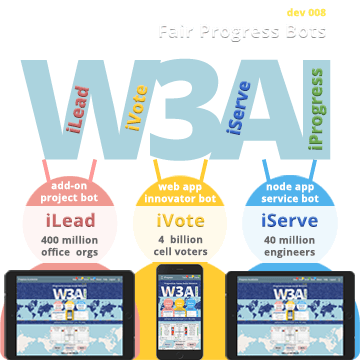
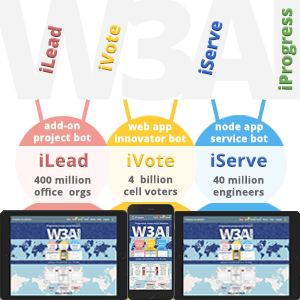
300px W3AI bots png on welcome + css

diff --git a/src/app/welcome/welcome.component.html b/src/app/welcome/welcome.component.html
@@ -1,16 +1,11 @@
 <section fxLayout="column" fxLayoutAlign="start center" class="web-view">
 
-  <img id="innovators" class="web-show" src="/assets/img/innovators-400.jpg">
+  <img id="innovators" class="web-show" src="/assets/img/innovators-400.jpg" height="300">
 
   <div class="faster-world">
     <img id="leaders" src="/assets/img/filter.png">
   </div>
 
-  <!--
-  <div class="faster-world" [ngStyle]="{'background-position-x': setFasterWorldMove() + 'px'}">
-      <img id="leaders" src="/assets/img/filter.png">
-  </div>
--->
   <div class="slow-world" [ngStyle]="{'background-position-x': setSlowWorldMove() + 'px'}">
     <img id="voters" src="/assets/img/filter.png">
   </div>
@@ -34,7 +29,7 @@
         <li fxHide.lt-md class="ranks" fxLayout="column" fxLayoutAlign="center center" fxLayoutGap="5px">
           <h6 class="carousel"
             title="Ranking based on Alfred North Whitehead formula - Civilization Rank = Number of unique automated services">
-            Innovation Rank by number of unique bot services</h6>
+            Innovation Rank by number of unique service bots</h6>
           <ol class="container-index" fxLayout="row" fxLayoutAlign="center center" fxLayoutGap="10px">
             <li class="rank">EN <img class="rank-flag" src="/assets/flags/US.png"></li>
             <li class="rank">ZH <img class="rank-flag" src="/assets/flags/CN.png"></li>
@@ -60,7 +55,7 @@
         <li fxHide.lt-md class="ranks" fxLayout="column" fxLayoutAlign="center center" fxLayoutGap="5px">
           <h6 class="carousel"
             title="Ranking based on Alfred North Whitehead formula - Progress Rank = Speed of adding new types of automated services">
-            Progress Rank by speed of adding new bot services</h6>
+            Progress Rank by speed of adding new service bots</h6>
           <ol class="container-index" fxLayout="row" fxLayoutAlign="center center" fxLayoutGap="10px">
             <li class="rank">ZH <img class="rank-flag" src="/assets/flags/CN.png"></li>
             <li class="rank">EN <img class="rank-flag" src="/assets/flags/US.png"></li>

diff --git a/src/app/welcome/welcome.component.css b/src/app/welcome/welcome.component.css
@@ -1,5 +1,5 @@
 .web-view {
-    height: 400px;
+    height: 300px;
     background-image: url("/assets/img/innovators-400.jpg");
     background-color: rgba(64,84,178);
 }
@@ -10,14 +10,14 @@ div.web-show {
     z-index: 2;
     padding: 0px;
     text-align: center;
-    height: 400px;
+    height: 340px;
 }
 
 .faster-world {
-    height: 60px;
+    height: 40px;
     width: 100%;
     position: relative;
-    top: -400px;
+    top: -340px;
     z-index: 4;
 /*    background-image: url("/assets/img/World-120.png");   */
     background-size: 0% 0%;
@@ -25,10 +25,10 @@ div.web-show {
 }
 
 .slow-world {
-    height: 200px;
+    height: 240px;
     width: 100%;
     position: relative;
-    top: -300px;
+    top: -340px;
     z-index: 4;
     background-image: url("/assets/img/World-240.png");
     background-size: contain;
@@ -60,7 +60,7 @@ div.web-show {
 
 .slides {
     position: relative;
-    top: -662px;
+    top: -584px;
     z-index: 20;
 }
 
@@ -74,7 +74,7 @@ div.web-show {
 
 .web-line-north {
     position: relative;
-    top: -500px;
+    top: -580px;
     height: 2px;
     width: 100%;
     background-image: url("/assets/img/web-line-120.png");
@@ -83,11 +83,11 @@ div.web-show {
 
 .web-line-south {
     position: relative;
-    top: -302px;
+    top: -342px;
     height: 2px;
     width: 100%;
     background-image: url("/assets/img/web-line-120.png");
-    z-index: 30;
+    z-index: 10;
 }
 
 #web-filter {
@@ -105,7 +105,7 @@ h6.web-links {
 
 .carouselbox {
     position: relative;
-    top: -664px;
+    top: -634px;
     height: 40px;
     color: whitesmoke;
 }
